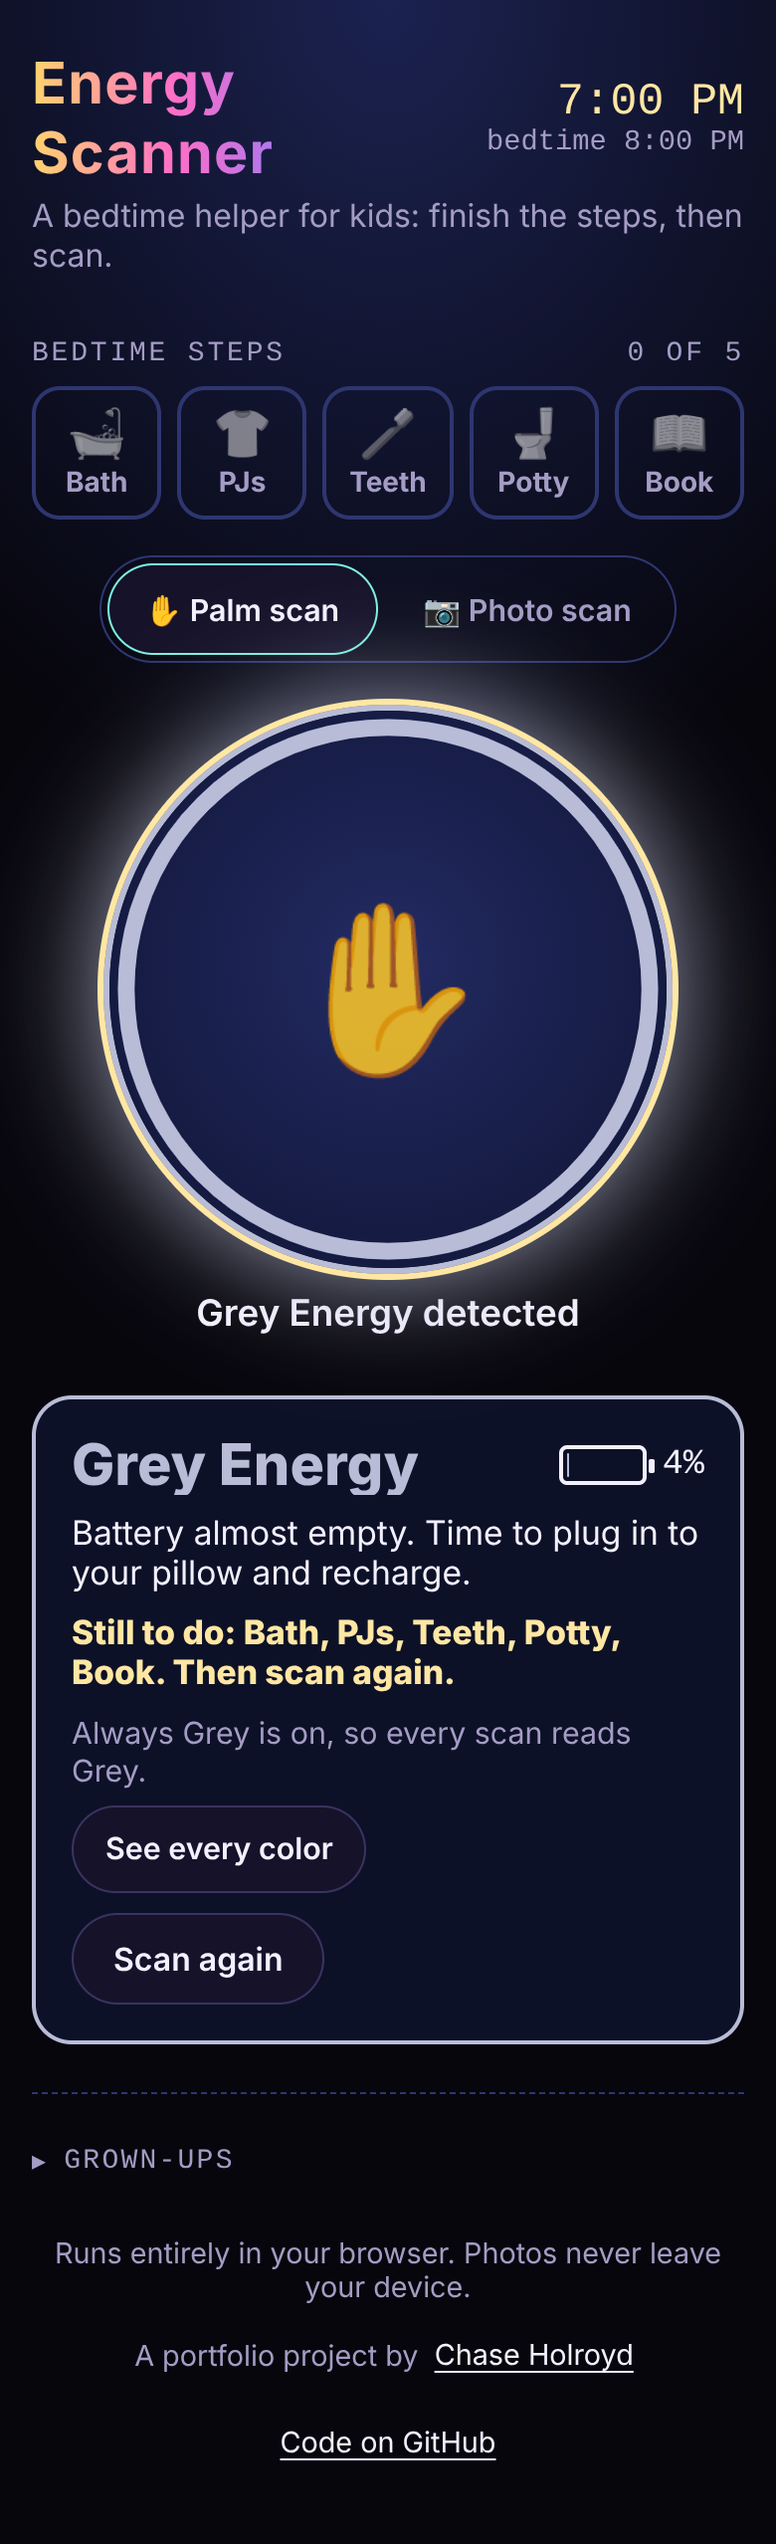
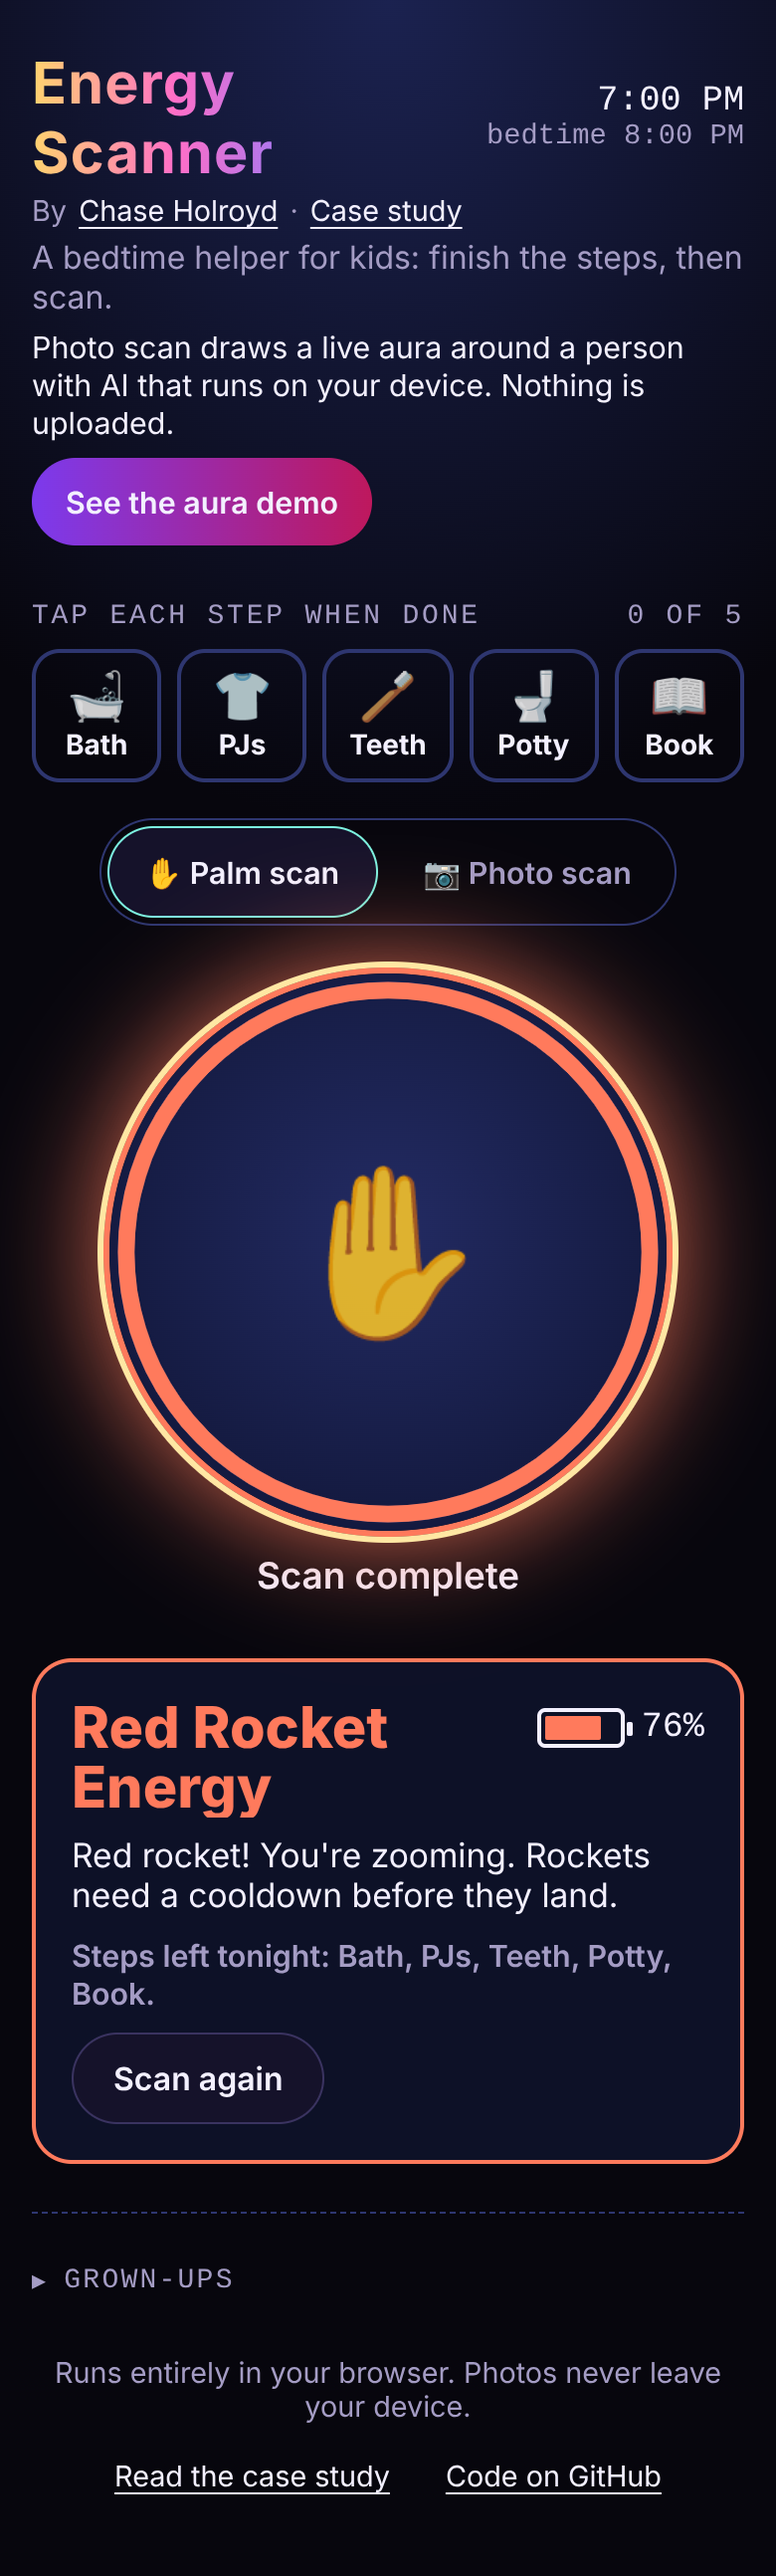
README screenshots and og.png from the round 6 UI
Claude-Session: https://claude.ai/code/session_01CAFf8gEb2D62yAiQPHbanw

diff --git a/README.md b/README.md
@@ -7,8 +7,8 @@ Everything runs in your browser. **Photos never leave your device.** There is no
 **Try it:** [chaseholroyd.com/energy-scanner](https://chaseholroyd.com/energy-scanner/), on a phone or laptop. No sign-up. No photo handy? Tap **Photo scan**, then **Try the sample**.
 
 <p align="center">
-  <img src="docs/screenshots/start-mobile.png" alt="Start screen: bedtime steps, a Palm scan and Photo scan switch, and the palm pad" width="200" />
-  <img src="docs/screenshots/palm-mobile.png" alt="A palm scan reading Grey Energy with the steps still to do" width="200" />
+  <img src="docs/screenshots/start-mobile.png" alt="Start screen: what it is, a See the aura demo button, bedtime steps, the Palm scan and Photo scan switch, and the palm pad" width="200" />
+  <img src="docs/screenshots/palm-mobile.png" alt="A palm scan an hour before bedtime reading Red Rocket Energy, with the steps left tonight" width="200" />
   <img src="docs/screenshots/aura-rainbow.png" alt="The illustrated sample child with a glowing Rainbow aura" width="200" />
   <img src="docs/screenshots/aura-grey.png" alt="The same sample with a soft Grey aura at bedtime" width="200" />
 </p>

diff --git a/HANDOFF.md b/HANDOFF.md
@@ -23,6 +23,7 @@ _Updated 2026-10-22._
 - **Studio-wide status** (portfolio, domain, every demo, what's waiting on Chase): https://github.com/holroydchase-afk/pm-tools/blob/main/STUDIO-STATUS.md
 
 ## Done
+- 2026-10-24 night shift, screenshots (branch `m2.22-screenshots`, stacked on `m2.21-ui-polish`): README screenshots and `public/og.png` regenerated from the new UI with `npm run screenshots`; the start and palm shots now show a first visit (Always Grey off, 7pm). Round 7 re-review running.
 - 2026-10-24 night shift, UI polish (branch `m2.21-ui-polish`, stacked on `m2.20-photo-polish`), failing tests first:
   - R53: with Always Grey on, See every color is the main button beside Scan again; the note says it's a grown-up setting.
   - R55: "By Chase Holroyd · Case study" under the title; the footer link reads "Read the case study".
